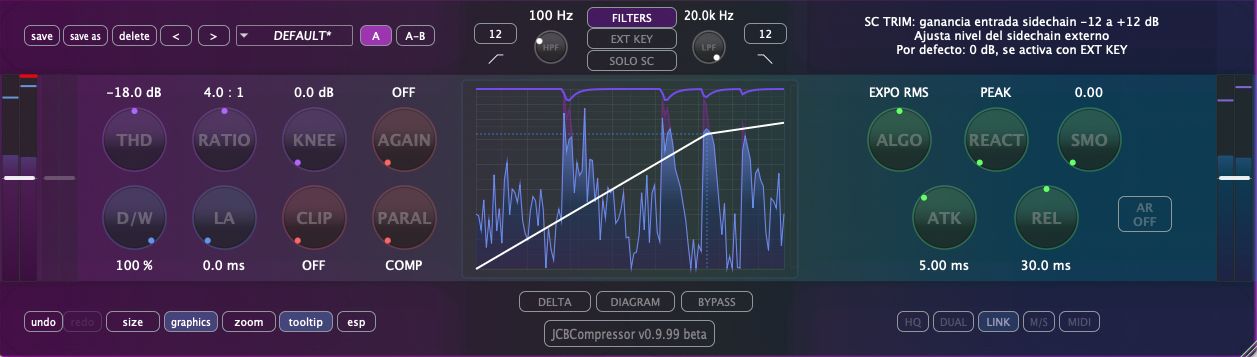
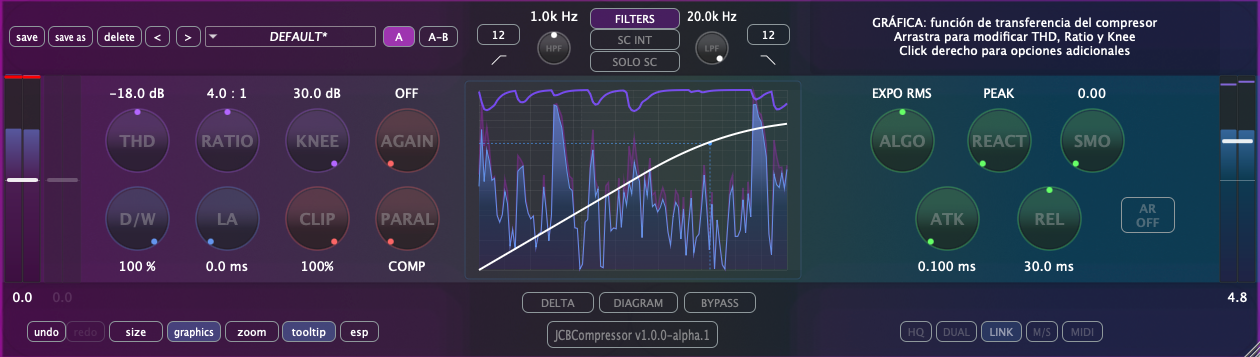
Update README.md

diff --git a/README.md b/README.md
@@ -61,39 +61,21 @@ cmake --build build-release   # Para Release
 
 ## Características principales
 
-- **Ajuste de entrada** (trim ±12 dB) para ambas cadenas.
-- **Procesamiento sidechain** interno y externo con filtros paso alto y bajo, 2º/4º orden.
-- **Tres modos de detección**: sharp (sliding RMS), expo RMS y slow RMS, con interpolación continua y control adicional de suavizado.
-- **Ajuste independiente de reacción pico/RMS**.
-- **Compresión con softknee** lineal de primer orden.
-- **Controles estándar**: threshold (-60 a 0 dB), ratio (1:1 a 20:1), attack (0.1 a 250 ms), release (0.1 a 1000 ms), knee (0 a 30 dB).
-- **Ganancia de compensación** (makeup gain ±12 dB) y **auto gain** (hasta 70% de recuperación).
-- **Compresión paralela** mediante suma 100% señal seca/comprimida.
-- **Softclipping asimétrico**, aplicado tras compresión y makeup gain.
-- **Control Dry/Wet** (-6 dB a 50%) para mezcla de señal post-procesado (post softclip).
-- **Procesamiento estéreo** con opción estéreo link.
-- **Monitorización avanzada**: escucha delta (entrada/salida) y solo sidechain.
-- **Visualización gráfica**: forma de onda, medidores y reducción de ganancia.
-- **Gestión de presets** (usuario y fábrica).
-- **Bypass interno**, independiente del DAW.
-- **Formatos disponibles**: VST3, AU y AAX.
-- **Visualización del diagrama de bloques**: Acceso al diagrama completo del compresor con posibilidad de explorar cada bloque y copiar el código GenExpr para usar directamente en objetos Codebox o gen.codebox~ (Max 9).
-
-## Novedades v1.0.0-alpha.1
-
-- **Corrección de gestión de latencia y sample rate**: ahora el plugin sincroniza correctamente el SR/VS internos de **Gen~** mediante `reset()` en `prepareToPlay`, garantizando que los cálculos de lookahead coincidan con los reportados al host.
-- **Latencia consistente en todos los hosts**: se reporta +1 muestra de retardo mínimo (por el retardo intrínseco de Gen~), y se calcula exactamente `ms * SR / 1000` para el lookahead. Verificado en *Pro Tools* con null tests.
-- **Softclip refinado**: aplicado únicamente en la rama **WET** (y bypassado en modo *Delta*), evitando residuos o filtrados no deseados en modo **DRY**.
-- **Null tests verificados**:
-  - DRY 100% ⇒ cancelación perfecta.
-  - WET 100% ⇒ solo se escucha el delta de compresión.
-  - Lookahead 0 ms ⇒ latencia real de 1 muestra (compensada).
-  - Lookahead 10 ms @ 48 kHz ⇒ 480 muestras exactas, commit en fase.
-- **Thread safety mejorada**: eliminadas todas las *assertions* de **pluginval** (strictness level 10) mediante sistema de atómicos y `Timer` para actualizaciones UI thread-safe. Verificado funcionamiento estable con automatización en múltiples DAWs.
-- Implementación sistema de bypass compensado (portado de JCBTransient)
-- v1.0.0-alpha.1 validada con éxito en **AUVAL**, **pluginval**, **VST3 validator** y **AAX validator**.
-
-Estas mejoras consolidan la estabilidad y preparan la transición hacia la versión **1.0.0 alpha**.
+- **Compresor de rango dinámico** con controles de threshold, ratio, attack, release y knee.
+- **Control de entrada y salida** (trim y makeup) ±12 dB, con opción de auto gain (hasta 70%).
+- **Procesamiento sidechain** interno y externo con filtros HPF/LPF variables (20 Hz – 20 kHz), en 2º o 4º orden.
+- **Tres modos de detección**: sharp (sliding RMS), RMS exponencial y RMS lento, con interpolación continua.
+- **Compresión con softknee** ajustable de 0 a 30 dB.
+- **Paralelo integrado**: mezcla Dry/Wet y compresión paralela mediante suma de señal seca y comprimida.
+- **Softclip de salida** asimétrico, aplicado tras la compresión.
+- **Modo Delta activable**, para escuchar únicamente la diferencia entre señal procesada y original.
+- **Procesamiento estéreo**, con opción de estéreo link.
+- **Visualización gráfica** en tiempo real: forma de onda, medidores y reducción de ganancia.
+- **Gestión de presets** completa (fábrica y usuario).
+- **Bypass interno** con transición suave.
+- **Modo lookahead** de 0 a 10 ms, con compensación exacta de latencia en todos los hosts.
+- **Thread safety mejorada**, con actualizaciones de interfaz seguras y verificado en pluginval.
+- **Visualización del diagrama de bloques**, con acceso al código GenExpr de cada sección.
 
 ![Diagrama de Bloques](Assets/screenshotDiagram.png)
 
